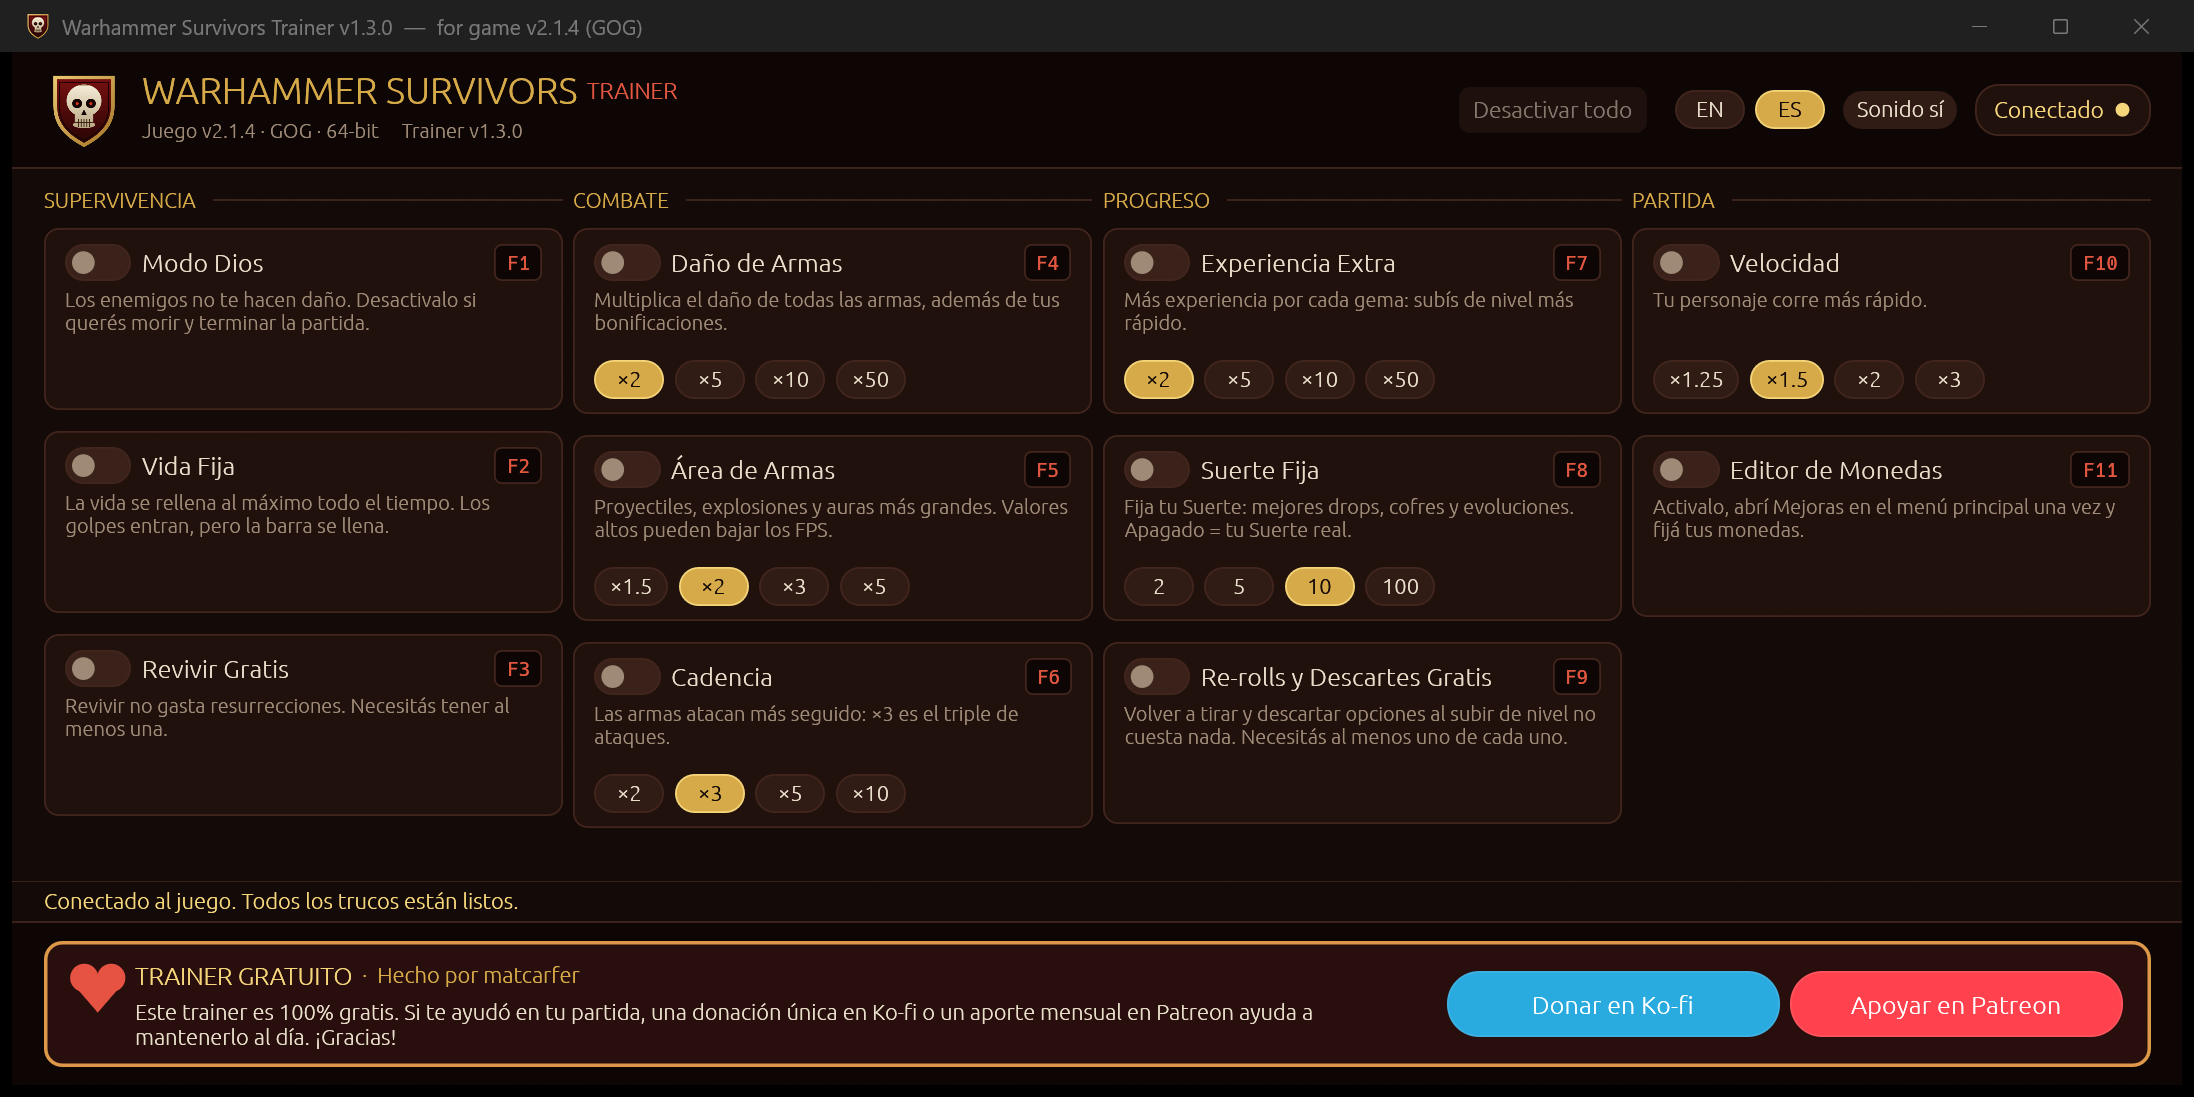
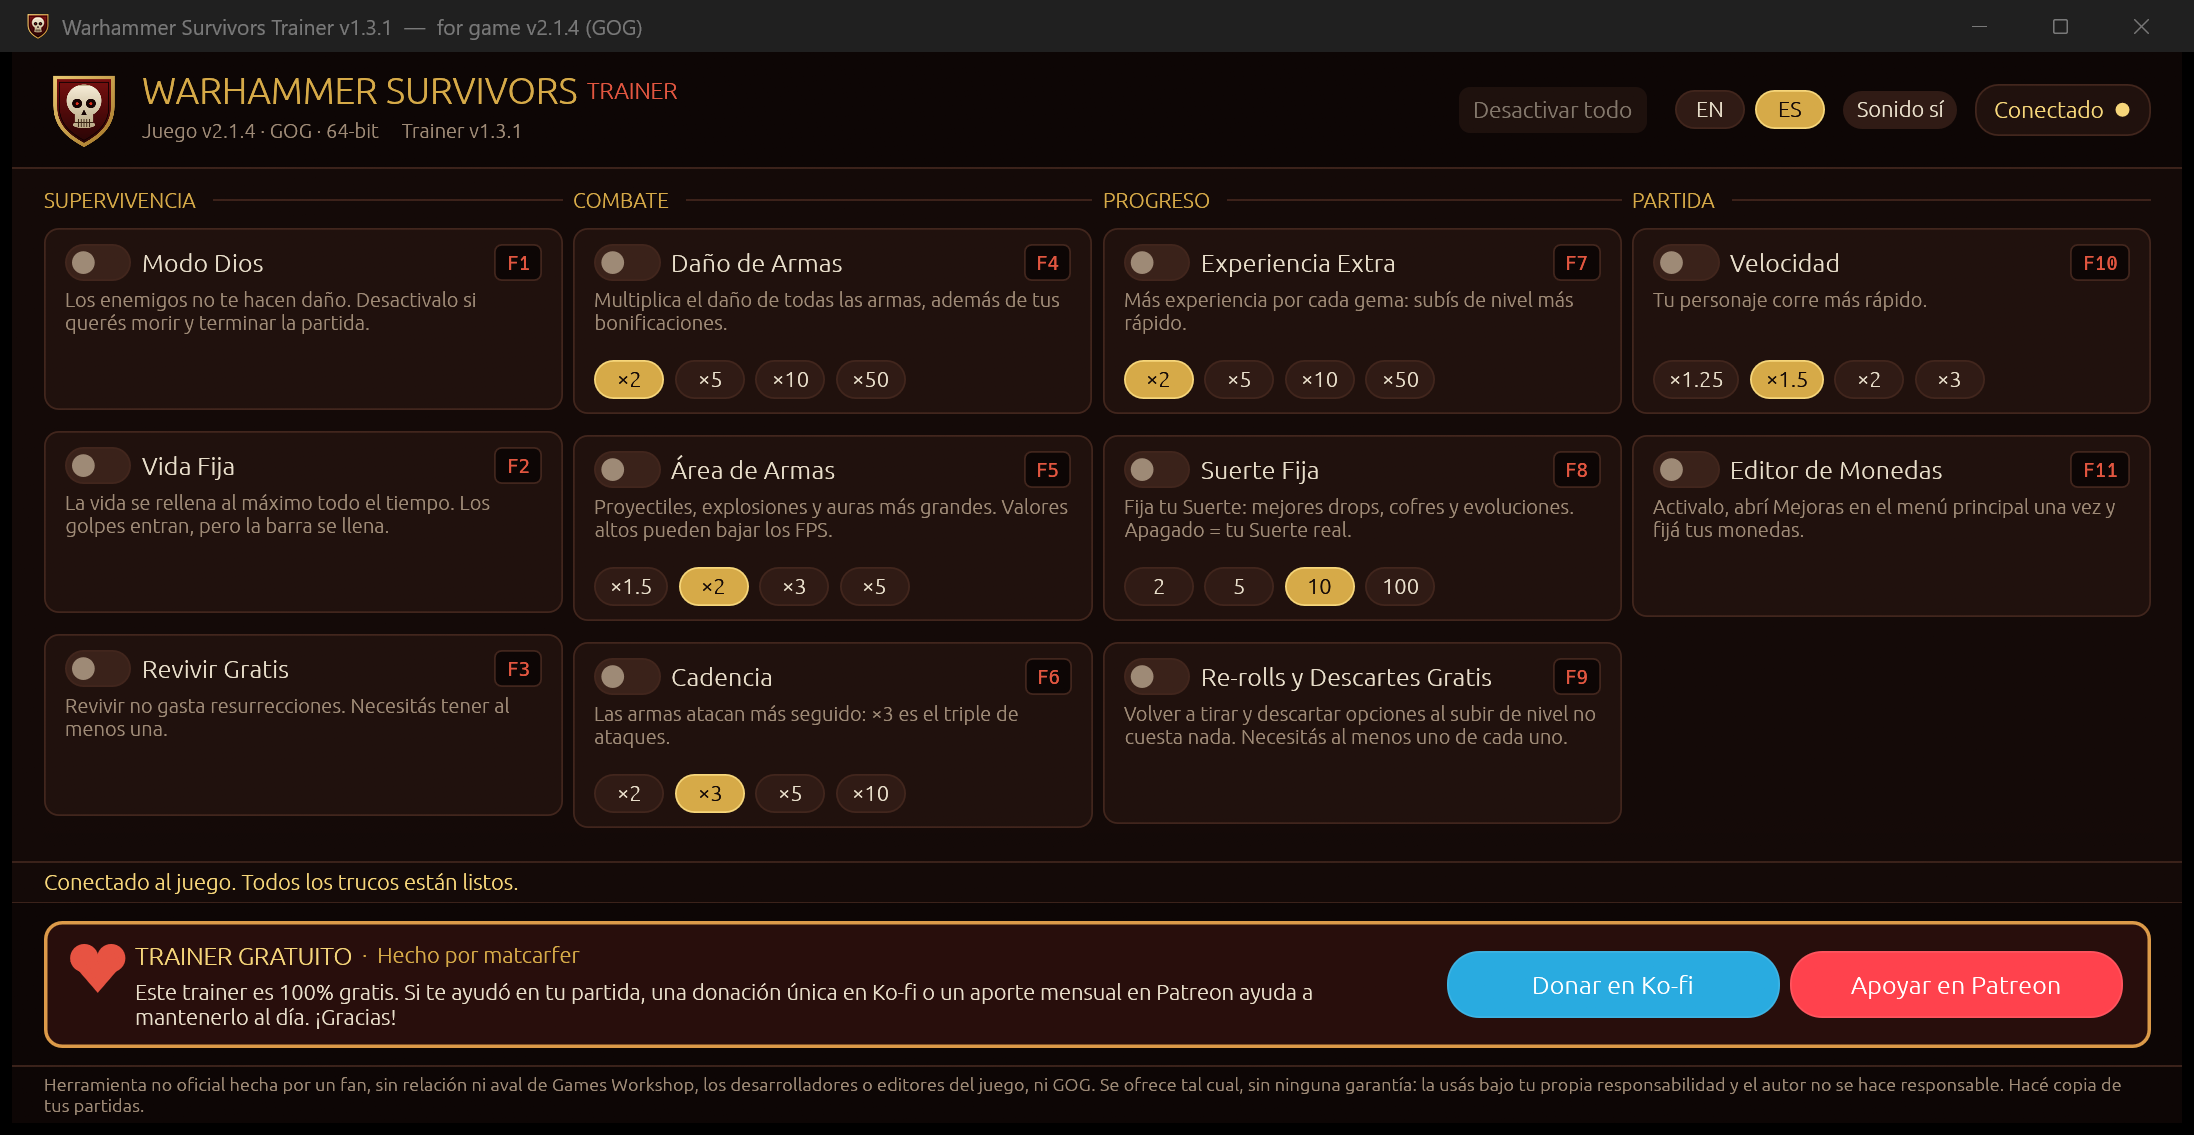
v1.3.1: disclaimer in the app, updated license and screenshot

Changed region(s): [[0.031, 0.062, 0.9918, 0.7748], [0.0, 0.7438, 0.9918, 0.9918]]

diff --git a/README.md b/README.md
@@ -69,7 +69,7 @@ Only download it from this page and compare the file's SHA-256 with the one list
 the release notes:
 
 ```powershell
-Get-FileHash .\WarhammerSurvivors-v2.1.4-Trainer-v1.3.0.exe -Algorithm SHA256
+Get-FileHash .\WarhammerSurvivors-v2.1.4-Trainer-v1.3.1.exe -Algorithm SHA256
 ```
 
 ## Safety
